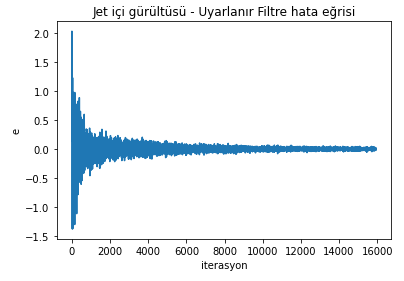
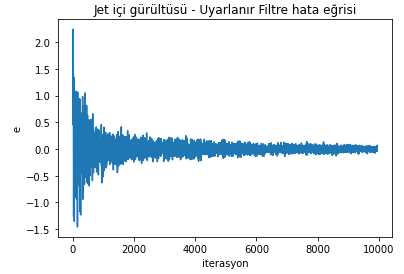
iterasyonu azalt

Changed region(s): [[0.0594, 0.0, 0.9802, 0.9927], [0.0297, 0.438, 0.0594, 0.4964]]

diff --git a/_posts/2020-03-22-uyarlanir-filtre-gurultu-yoketme.md b/_posts/2020-03-22-uyarlanir-filtre-gurultu-yoketme.md
@@ -404,7 +404,7 @@ from scipy.io import wavfile
 import matplotlib.pyplot as plt
 
 # iterasyon sayisi
-N=16000
+N=10000
 
 # Jet içi gürültü kaydını yükleyelim
 fs, signal = wavfile.read('insidejet.wav')
